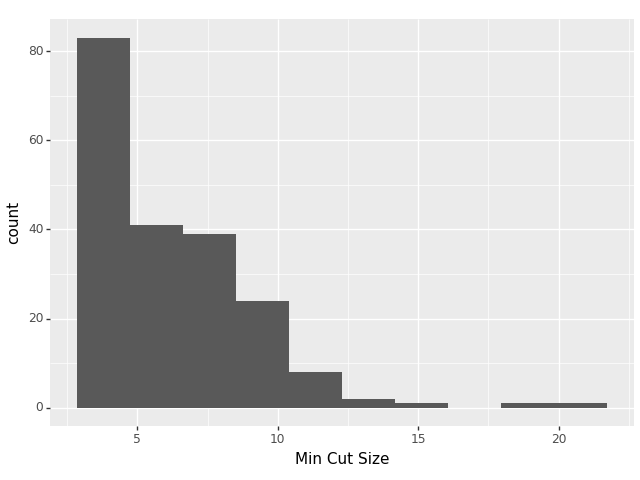
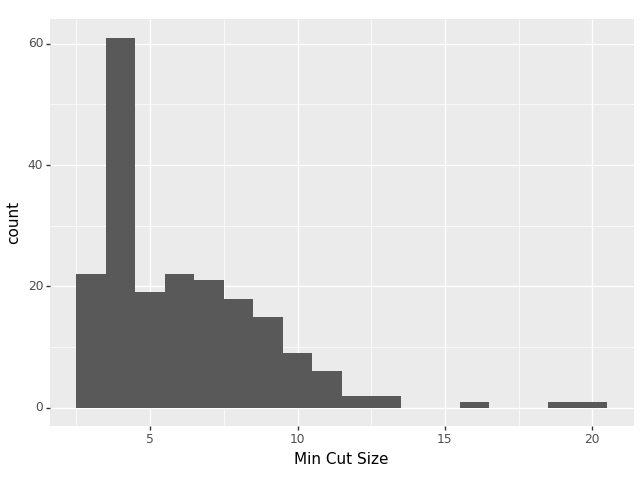
done?

diff --git a/homework6/homework6.py b/homework6/homework6.py
@@ -123,7 +123,6 @@ def Kargers(G: nx.MultiGraph, filename: str):
             if b == x:
                 continue
             H.add_edge(x,b)
-            # H.remove_edge(y,b)
         H.remove_node(y)
     ITERS = 200
     min_cuts = []
@@ -131,13 +130,15 @@ def Kargers(G: nx.MultiGraph, filename: str):
         H = G.copy()
         num_nodes = len(H.nodes)
         while num_nodes > 2:
-            x,y,_ = random.choice([*H.edges])
+            x,y,z = random.choice([*H.edges])
+            #H = nx.contracted_edge(H, (x,y,z), self_loops = False)
             contract(H, x, y)
             num_nodes = len(H.nodes)
+        print(len(H.edges), end=" ")
         min_cuts.append(len(H.edges))
     p = (
         ggplot(aes(x="Min Cut Size"), pd.DataFrame({"Min Cut Size": min_cuts}))
-        + geom_histogram(bins=10)
+        + geom_histogram(binwidth=1)
     )
     p.save(filename)
     print("Best Min Cut:", min(min_cuts))
